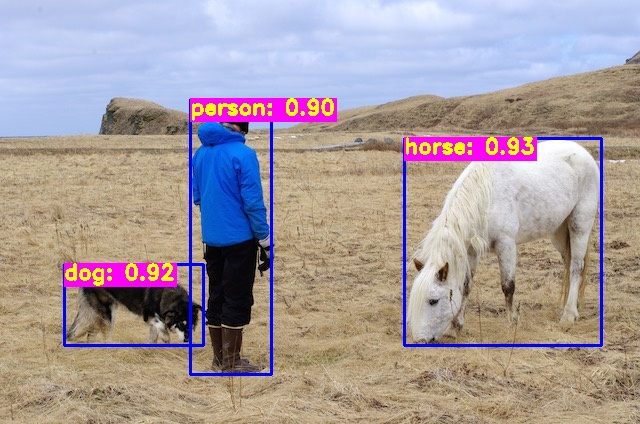
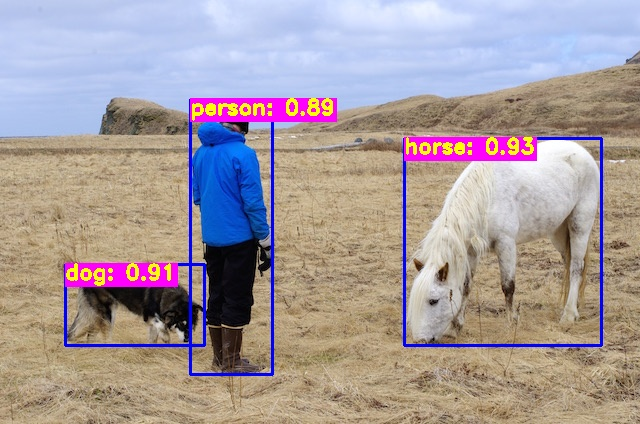
Add RFDetr model implementation and update launch configurations

diff --git a/src/tasks/object_detection/src/RFDetr.cpp b/src/tasks/object_detection/src/RFDetr.cpp
@@ -1,0 +1,186 @@
+#include "RFDetr.hpp"
+
+RFDetr::RFDetr(const TritonModelInfo& model_info) : TaskInterface(model_info) {
+
+     for (size_t i = 0; i < model_info.output_names.size(); ++i) {
+         if (model_info.output_names[i] == "dets") dets_idx_ = i;
+        else if (model_info.output_names[i] == "labels") labels_idx_ = i;
+    }
+
+    // Check if all indices are set
+    if (!dets_idx_.has_value()  || !labels_idx_.has_value()) {
+        throw std::runtime_error("Not all required output indices were set in the model info");
+    }       
+}   
+std::vector<uint8_t> RFDetr::preprocess_image(const cv::Mat& img, const std::string& format, int img_type1, int img_type3,
+                                              size_t img_channels, const cv::Size& img_size) {
+    std::vector<uint8_t> input_data;
+    cv::Mat sample;
+    cv::cvtColor(img, sample, cv::COLOR_BGR2RGB);
+    cv::resize(sample, sample, img_size, 0, 0, cv::INTER_LINEAR);
+    sample.convertTo(sample, CV_32FC3, 1.f / 255.f);
+    cv::subtract(sample, cv::Scalar(0.485f, 0.456f, 0.406f), sample);
+    cv::divide(sample, cv::Scalar(0.229f, 0.224f, 0.225f), sample);
+
+
+    // Handle data layout (NHWC vs NCHW)
+    size_t img_byte_size = sample.total() * sample.elemSize();
+    input_data.resize(img_byte_size);
+
+    // Check if data needs to be reordered for NCHW format
+    // Assuming format string might be "FORMAT_NCHW" or similar based on Triton examples
+    if (format.find("NCHW") != std::string::npos) {
+        size_t pos = 0;
+        std::vector<cv::Mat> input_channels;
+        for (size_t i = 0; i < img_channels; ++i) {
+             // Create a Mat view backed by the input_data vector
+             input_channels.emplace_back(
+                 img_size.height, img_size.width, CV_32F, input_data.data() + pos);
+             pos += input_channels.back().total() * input_channels.back().elemSize();
+        }
+        cv::split(sample, input_channels); // Split channels directly into the buffer
+
+        if (pos != img_byte_size) {
+             std::cerr << "RFDetr Preprocess Error: unexpected total size of channels " << pos
+                       << ", expecting " << img_byte_size << std::endl;
+             throw std::runtime_error("RFDetr Preprocess Error: Mismatch in byte size during NCHW conversion.");
+        }
+    } else { // Assume NHWC or contiguous format
+        std::memcpy(input_data.data(), sample.data, img_byte_size);
+    }
+
+
+    return input_data;
+}
+
+
+
+std::vector<std::vector<uint8_t>> RFDetr::preprocess(const std::vector<cv::Mat>& imgs)
+{
+    if (imgs.empty()) {
+        throw std::runtime_error("Input image vector is empty");
+    }
+
+    cv::Mat img = imgs.front();
+    if (img.empty()) {
+        throw std::runtime_error("Input image is empty");
+    }
+    std::vector<std::vector<uint8_t>> input_data(model_info_.input_shapes.size());
+
+    for (size_t i = 0; i < model_info_.input_shapes.size(); ++i) {
+        const auto& input_name = model_info_.input_names[i];
+        const auto& input_shape = model_info_.input_shapes[i];
+        const auto& input_format = model_info_.input_formats[i];
+        const auto& input_type = model_info_.input_types[i];
+
+        if (input_shape.size() >= 3) {
+            // This is likely an image input
+            const auto input_size = cv::Size(input_width_, input_height_);
+            input_data[i] = preprocess_image(img, input_format, model_info_.type1_, model_info_.type3_, img.channels(), input_size);                                      
+        } else {
+            // For other types of inputs, you might need to add more cases
+            // or use a default handling method
+            std::cerr << "Warning: Unhandled input " << input_name << ". Sending empty data." << std::endl;
+        }
+    }
+    return input_data;
+}
+
+std::vector<Result> RFDetr::postprocess(const cv::Size& frame_size,
+                                        const std::vector<std::vector<TensorElement>>& infer_results,
+                                        const std::vector<std::vector<int64_t>>& infer_shapes) {
+    const float confThreshold = 0.5f;
+    const float iouThreshold = 0.4f;
+
+    if (!dets_idx_.has_value() || !labels_idx_.has_value()) {
+        throw std::runtime_error("Not all required output indices were set in the model info");
+    }
+
+    const auto& boxes = infer_results[dets_idx_.value()];
+    const auto& labels = infer_results[labels_idx_.value()];
+    const auto& shape_boxes = infer_shapes[dets_idx_.value()];
+    const auto& shape_labels = infer_shapes[labels_idx_.value()];
+
+    if (shape_boxes.size() < 3 || shape_labels.size() < 3) {
+        throw std::runtime_error("Invalid output tensor shapes");
+    }
+
+    const size_t num_detections = shape_boxes[1];
+    const size_t num_classes = shape_labels[2];
+
+    const float scale_w = static_cast<float>(frame_size.width) / input_width_;
+    const float scale_h = static_cast<float>(frame_size.height) / input_height_;
+
+    std::vector<cv::Rect> bboxes;
+    std::vector<float> scores;
+    std::vector<int> labels_vec;
+
+    for (size_t i = 0; i < num_detections; ++i) {
+        const size_t det_offset = i * shape_boxes[2];
+        const size_t label_offset = i * num_classes;
+
+        float max_score = -1.0f;
+        int max_class_idx = -1;
+
+        for (size_t j = 0; j < num_classes; ++j) {
+            float logit;
+            try {
+                logit = std::get<float>(labels[label_offset + j]);
+            } catch (const std::bad_variant_access&) {
+                throw std::runtime_error("Invalid TensorElement type for labels at index " + std::to_string(label_offset + j));
+            }
+
+            const float score = sigmoid(logit);
+            if (score > max_score) {
+                max_score = score;
+                max_class_idx = j;
+            }
+        }
+
+        max_class_idx -= 1; // Adjust class index if necessary
+
+        if (max_score > confThreshold && max_class_idx >= 0 && static_cast<size_t>(max_class_idx) < num_classes) {
+            float x_center, y_center, width, height;
+            try {
+                x_center = std::get<float>(boxes[det_offset + 0]) * input_width_;
+                y_center = std::get<float>(boxes[det_offset + 1]) * input_height_;
+                width = std::get<float>(boxes[det_offset + 2]) * input_width_;
+                height = std::get<float>(boxes[det_offset + 3]) * input_height_;
+            } catch (const std::bad_variant_access&) {
+                throw std::runtime_error("Invalid TensorElement type for boxes at index " + std::to_string(det_offset));
+            }
+
+            const float x_min = x_center - width / 2.0f;
+            const float y_min = y_center - height / 2.0f;
+            const float x_max = x_center + width / 2.0f;
+            const float y_max = y_center + height / 2.0f;
+
+            cv::Rect bbox(
+                static_cast<int>(x_min * scale_w),
+                static_cast<int>(y_min * scale_h),
+                static_cast<int>((x_max - x_min) * scale_w),
+                static_cast<int>((y_max - y_min) * scale_h)
+            );
+
+            bboxes.push_back(bbox);
+            scores.push_back(max_score);
+            labels_vec.push_back(max_class_idx);
+        }
+    }
+
+    // Apply NMS
+    std::vector<int> indices;
+    cv::dnn::NMSBoxes(bboxes, scores, confThreshold, iouThreshold, indices);
+
+    // Create final detections list using NMS indices
+    std::vector<Result> final_detections;
+    for (int idx : indices) {
+        Detection detection;
+        detection.bbox = bboxes[idx];
+        detection.class_confidence = scores[idx];
+        detection.class_id = labels_vec[idx];
+        final_detections.push_back(detection);
+    }
+
+    return final_detections;
+}

diff --git a/src/tasks/object_detection/src/RFDetr.hpp b/src/tasks/object_detection/src/RFDetr.hpp
@@ -1,0 +1,25 @@
+#pragma once
+#include "common.hpp"
+#include "TaskInterface.hpp"
+#include <optional>
+#include <stdexcept>
+
+class RFDetr : public TaskInterface {
+public:
+    RFDetr(const TritonModelInfo& model_info);
+    std::vector<std::vector<uint8_t>> preprocess(const std::vector<cv::Mat>& imgs) override;    
+    std::vector<Result> postprocess(const cv::Size& frame_size, const std::vector<std::vector<TensorElement>>& infer_results,
+                                    const std::vector<std::vector<int64_t>>& infer_shapes) override;
+    TaskType getTaskType() override { return TaskType::Detection; }    
+private:
+    std::vector<uint8_t> preprocess_image(const cv::Mat& img, const std::string& format, int img_type1, int img_type3,
+                                    size_t img_channels, const cv::Size& img_size);
+    std::vector<uint8_t> preprocess_orig_size(const cv::Mat& img, const std::vector<int64_t>& shape);                                 
+
+    inline float sigmoid(float x) const noexcept {
+        return 1.0f / (1.0f + std::exp(-x));
+    }    
+    
+    std::optional<size_t> dets_idx_;
+    std::optional<size_t> labels_idx_;
+};

diff --git a/src/tasks/task_factory.cpp b/src/tasks/task_factory.cpp
@@ -8,11 +8,14 @@
 #include "TensorflowClassifier.hpp"
 #include "YOLOSeg.hpp"
 #include "RAFT.hpp"
+#include "RFDetr.hpp"
+
 // Define the map of task creators
 std::map<std::string, TaskFactory::TaskCreator> TaskFactory::taskCreators = {
     {"torchvision-classifier", [](const TritonModelInfo& modelInfo) { return std::make_unique<TorchvisionClassifier>(modelInfo); }},
     {"tensorflow-classifier", [](const TritonModelInfo& modelInfo) { return std::make_unique<TensorflowClassifier>(modelInfo); }},
     {"yoloseg", [](const TritonModelInfo& modelInfo) { return std::make_unique<YOLOSeg>(modelInfo); }},
+    {"rfdetr", [](const TritonModelInfo& modelInfo) { return std::make_unique<RFDetr>(modelInfo); }},
     {"yolonas", [](const TritonModelInfo& modelInfo) { return std::make_unique<YoloNas>(modelInfo); }},
     {"yolov5", [](const TritonModelInfo& modelInfo) { return std::make_unique<YOLO>(modelInfo); }},
     {"yolov6", [](const TritonModelInfo& modelInfo) { return std::make_unique<YOLO>(modelInfo); }},

diff --git a/docs/ObjectDetection.md b/docs/ObjectDetection.md
@@ -156,3 +156,31 @@ python tools/deployment/export_onnx.py --check -c configs/deim_dfine/deim_hgnetv
 
 ### TensorRT for D-FINE and DEIM
 * Same as for lyuwenyu RT-DETR models
+
+
+## RF-DETR  
+* Follow the procedure listed https://github.com/roboflow/rf-detr?tab=readme-ov-file#onnx-export
+
+### ONNX Export for onnxruntime
+
+```python
+from rfdetr import RFDETRBase
+
+model = RFDETRBase(pretrain_weights=<CHECKPOINT_PATH>)
+
+model.export()
+```
+
+This command saves the ONNX model to the `output` directory.
+
+### TensorRT Export
+```bash
+trtexec --onnx=/path/to/model.onnx --saveEngine=/path/to/model.engine --memPoolSize=workspace:4096 --fp16 --useCudaGraph --useSpinWait --warmUp=500 --avgRuns=1000 --duration=10
+```
+
+* using a tensorrt docker container:
+```bash
+export NGC_TAG_VERSION=24.12
+docker run --rm -it --gpus=all -v $(pwd)/exports:/exports --ipc=host --ulimit memlock=-1 --ulimit stack=67108864 -v $(pwd)/model.onnx:/workspace/model.onnx -w /workspace nvcr.io/nvidia/tensorrt$NGC_TAG_VERSION:-py3 /bin/bash -cx "trtexec --onnx=model.onnx --saveEngine=/exports/model.engine --memPoolSize=workspace:4096 --fp16 --useCudaGraph --useSpinWait --warmUp=500 --avgRuns=1000 --duration=10"
+```
+ 

diff --git a/README.md b/README.md
@@ -33,6 +33,7 @@ This C++ application enables machine learning tasks (e.g. object detection, clas
 - [RT-DETRv2](https://github.com/lyuwenyu/RT-DETR/tree/main/rtdetrv2_pytorch)
 - [D-FINE](https://github.com/Peterande/D-FINE)
 - [DEIM](https://github.com/ShihuaHuang95/DEIM)
+- [RF-Detr](https://github.com/roboflow/rf-detr)
 
 ## Instance Segmentation
 
